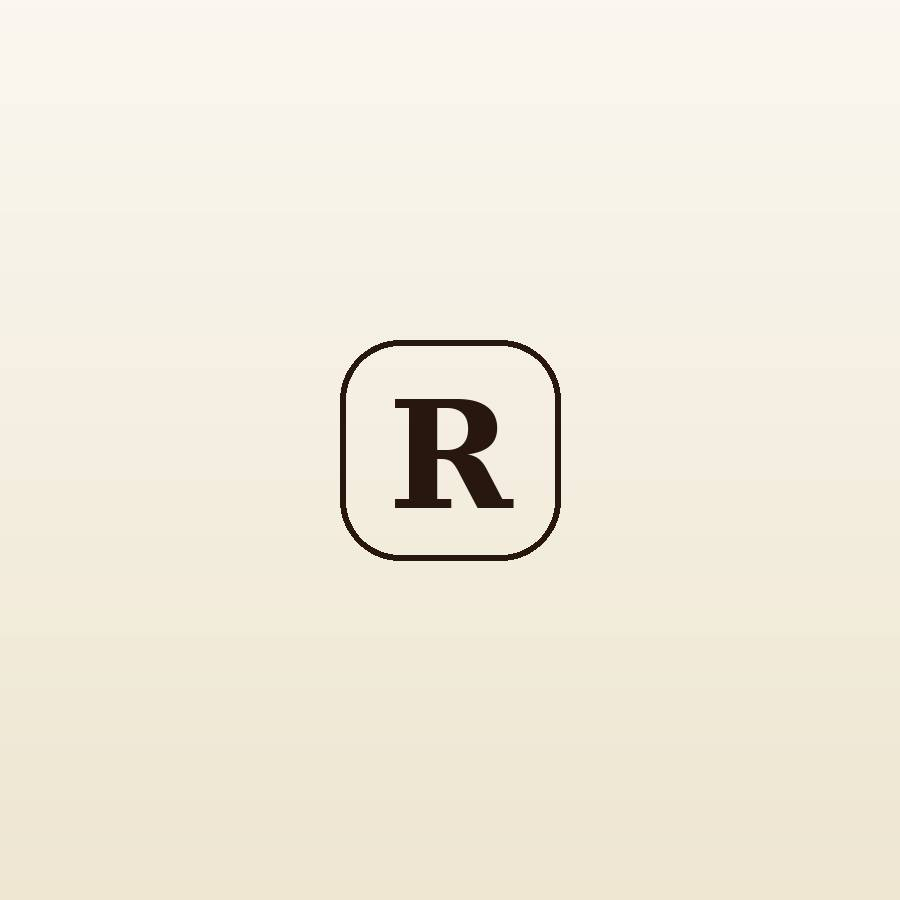
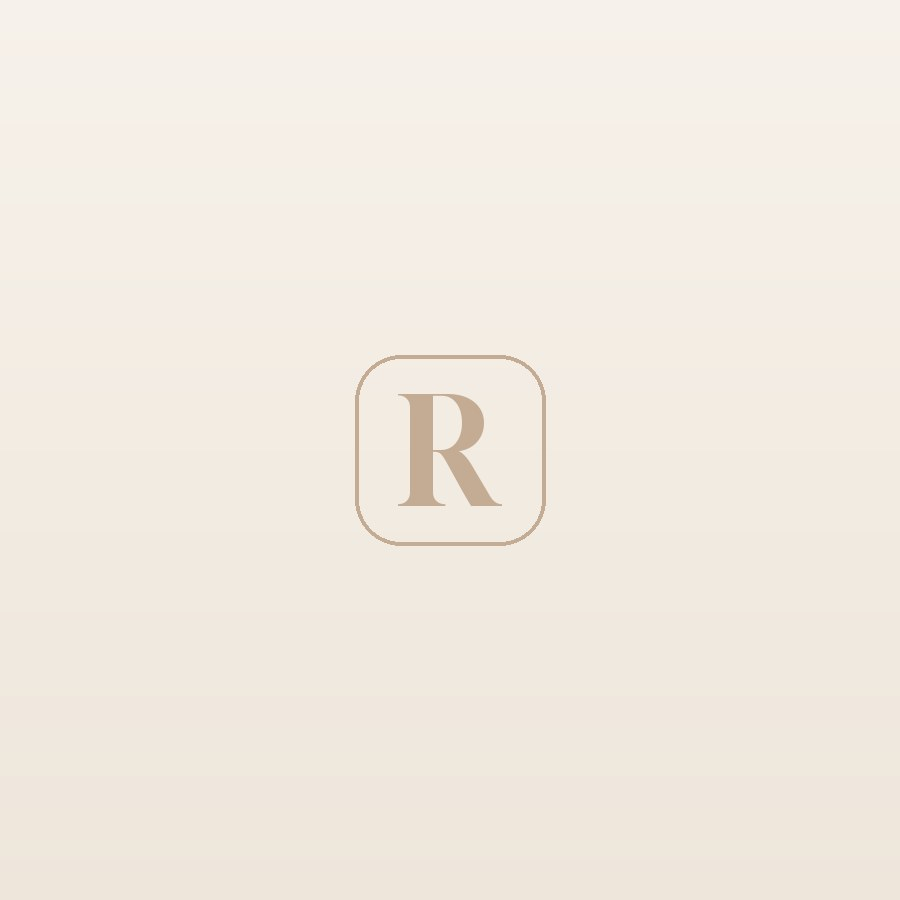
Calm pastel palette: pale oat surfaces, coffee only for text and small buttons; lighter placeholder images
Claude-Session: https://claude.ai/code/session_017r2n3BfUiKovAfFsusU44H

Changed region(s): [[0.3733, 0.3733, 0.6222, 0.6222]]

diff --git a/app/soft.css b/app/soft.css
@@ -179,3 +179,51 @@ footer.site{margin:24px var(--inset) var(--inset);border-radius:var(--r-xl);padd
 .proto{border-radius:var(--r-md)}
 .tb{border-radius:var(--r-lg)}
 .hero .wrap{padding-left:calc(var(--gut) + clamp(4px,3vw,44px));padding-right:calc(var(--gut-r) + clamp(4px,3vw,44px))}
+
+/* ===== Calm pastel palette =====
+   Pale oat and sand surfaces; the dark coffee only for text and small solid buttons. */
+:root:not([data-theme="dark"]){
+  --bg:#FBF9F5; --surface:#FFFFFF; --soft:#F4EFE8; --ink:#3A2B21; --muted:#8C7D6F; --line:#EDE6DC;
+  --azalea:#8A6A51; --on-azalea:#FFFFFF; --leaf:#8A6A51;
+  --deep:#F1EBE2; --on-deep:#3A2B21; --deep-muted:#7F7062;
+  --t1:#F6F1EA; --t2:#F3EDE4; --t3:#F0E9DF; --t4:#F7F3ED; --t5:#F2ECE3;
+  --hero-ink:#3A2B21; --hero-muted:#7F7062; --hero-btn:#3A2B21; --hero-btn-ink:#FFFFFF;
+  --scrim:rgba(58,43,33,.28);
+  --sh:0 1px 2px rgba(58,43,33,.04),0 10px 28px -20px rgba(58,43,33,.22);
+  --sh-lg:0 2px 6px rgba(58,43,33,.04),0 24px 48px -30px rgba(58,43,33,.3);
+}
+@media (prefers-color-scheme: dark){:root:not([data-theme="light"]){
+  --bg:#FBF9F5; --surface:#FFFFFF; --soft:#F4EFE8; --ink:#3A2B21; --muted:#8C7D6F; --line:#EDE6DC;
+  --azalea:#8A6A51; --on-azalea:#FFFFFF; --leaf:#8A6A51;
+  --deep:#F1EBE2; --on-deep:#3A2B21; --deep-muted:#7F7062;
+  --t1:#F6F1EA; --t2:#F3EDE4; --t3:#F0E9DF; --t4:#F7F3ED; --t5:#F2ECE3;
+  --hero-ink:#3A2B21; --hero-muted:#7F7062; --hero-btn:#3A2B21; --hero-btn-ink:#FFFFFF;
+  --scrim:rgba(58,43,33,.28); color-scheme:light;
+}}
+.btn-solid:hover{background:var(--azalea);border-color:var(--azalea)}
+.util{border-bottom:1px solid var(--line)}
+.util .side,.util .side a{color:var(--muted)}
+.hero,.slide.photo{background:var(--t4)}
+.story{border:1px solid var(--line)}
+.story-art .ring{border-color:rgba(58,43,33,.14)}
+footer.site{border:1px solid var(--line)}
+.news form{background:var(--surface);border:1px solid var(--line)}
+.news input{color:var(--ink)}
+.news input::placeholder{color:var(--muted)}
+.news button{background:var(--ink);color:#FFFFFF}
+.pay span{border-color:var(--line)}
+.wordmark{opacity:.06}
+.badge.new{background:var(--soft);color:var(--ink)}
+.badge.sale{background:var(--azalea)}
+.count{background:var(--azalea)}
+.tab[aria-selected="true"]{background:var(--soft);color:var(--ink);border-color:transparent}
+.chip:hover{background:var(--soft);color:var(--ink)}
+.marquee span{color:var(--muted)}
+.marquee span::after{background:var(--line)}
+.ptile::after{background:linear-gradient(to top,rgba(251,249,245,.96) 18%,rgba(251,249,245,0))}
+.sticky-buy{border-top:0}
+@media (max-width:760px){.sticky-buy .btn{box-shadow:none}}
+.promo-card{background:var(--soft);color:var(--ink)}
+.promo-card .eyebrow,.promo-card p{color:var(--muted)}
+.logo svg rect{fill:var(--soft);stroke:#D9CBBB;stroke-width:1}
+.logo svg text{fill:var(--ink)}

diff --git a/app/layout.js b/app/layout.js
@@ -20,7 +20,7 @@ export const metadata = {
   title: { default: 'The RBC Brand', template: '%s · The RBC Brand' },
   description: 'Personalised gifts, event souvenirs and home pieces from The RBC Brand, delivered across Nigeria.',
 };
-export const viewport = { width: 'device-width', initialScale: 1, viewportFit: 'cover', themeColor: '#FAF7F0' };
+export const viewport = { width: 'device-width', initialScale: 1, viewportFit: 'cover', themeColor: '#FBF9F5' };
 
 export default async function RootLayout({ children }) {
   const [products, ds, ann, lockSettings, h] = await Promise.all([getProducts(), getDealSettings(), getAnnouncement(), getLock(), headers()]);
